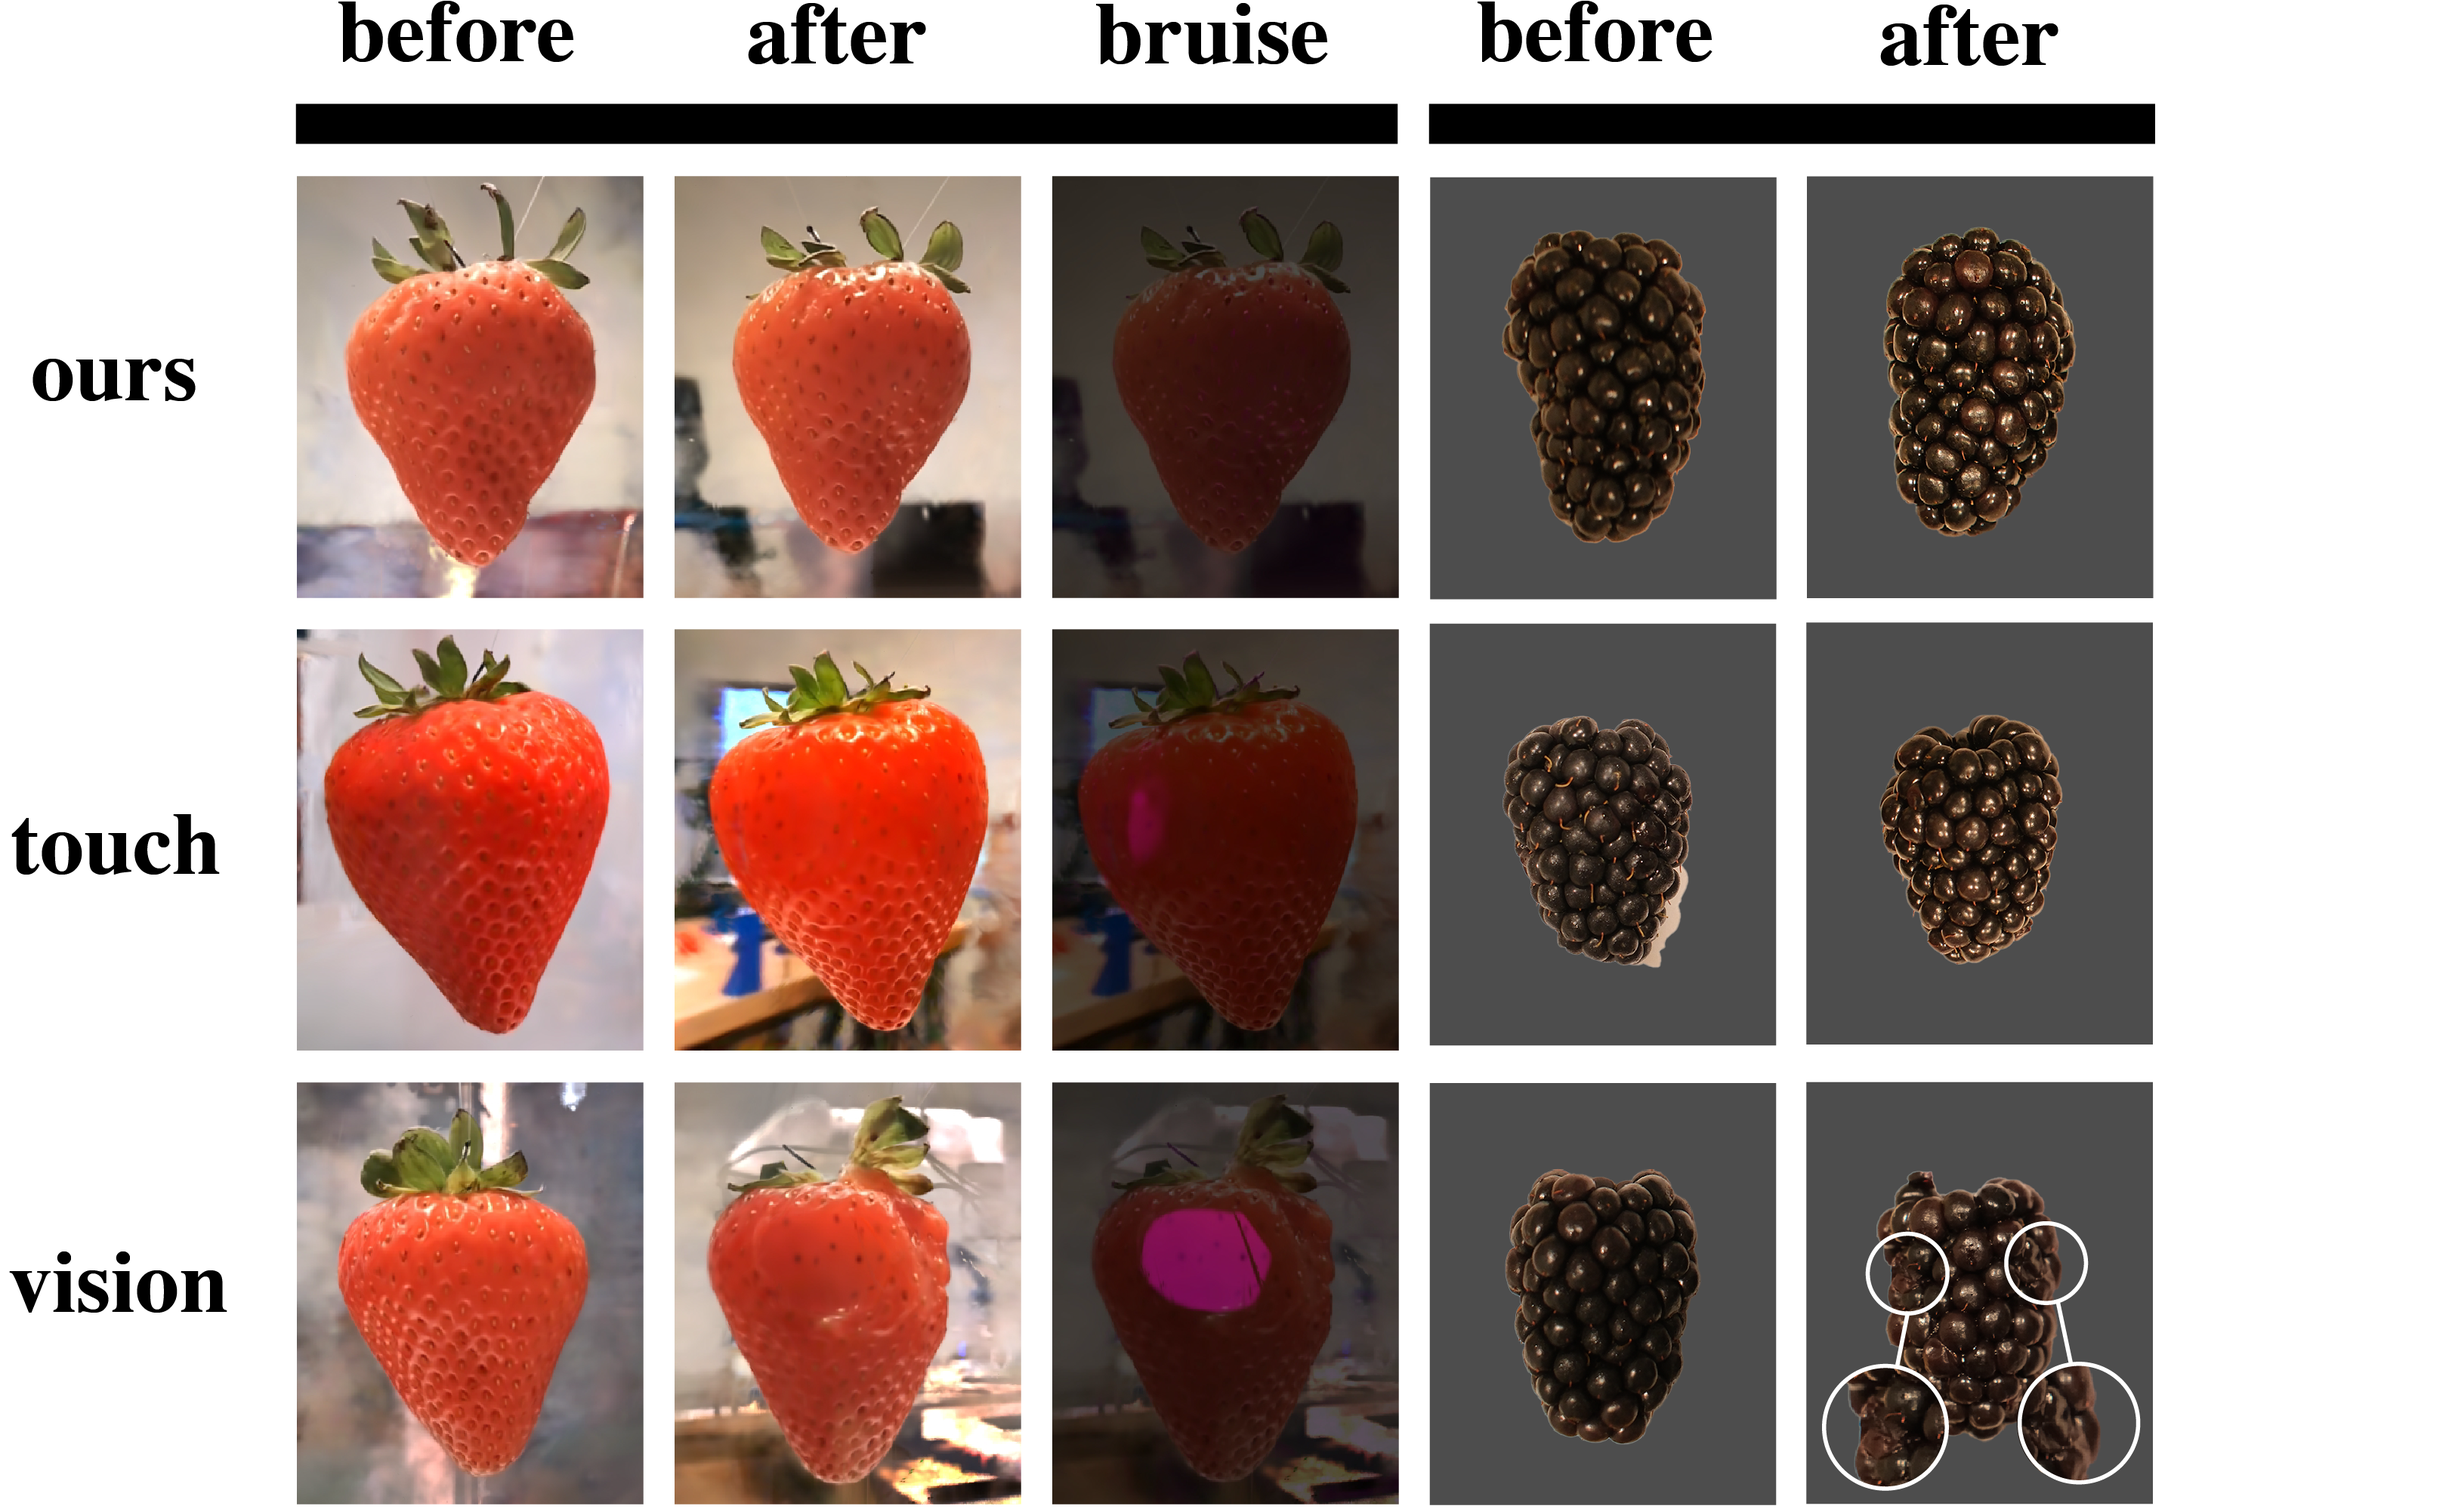
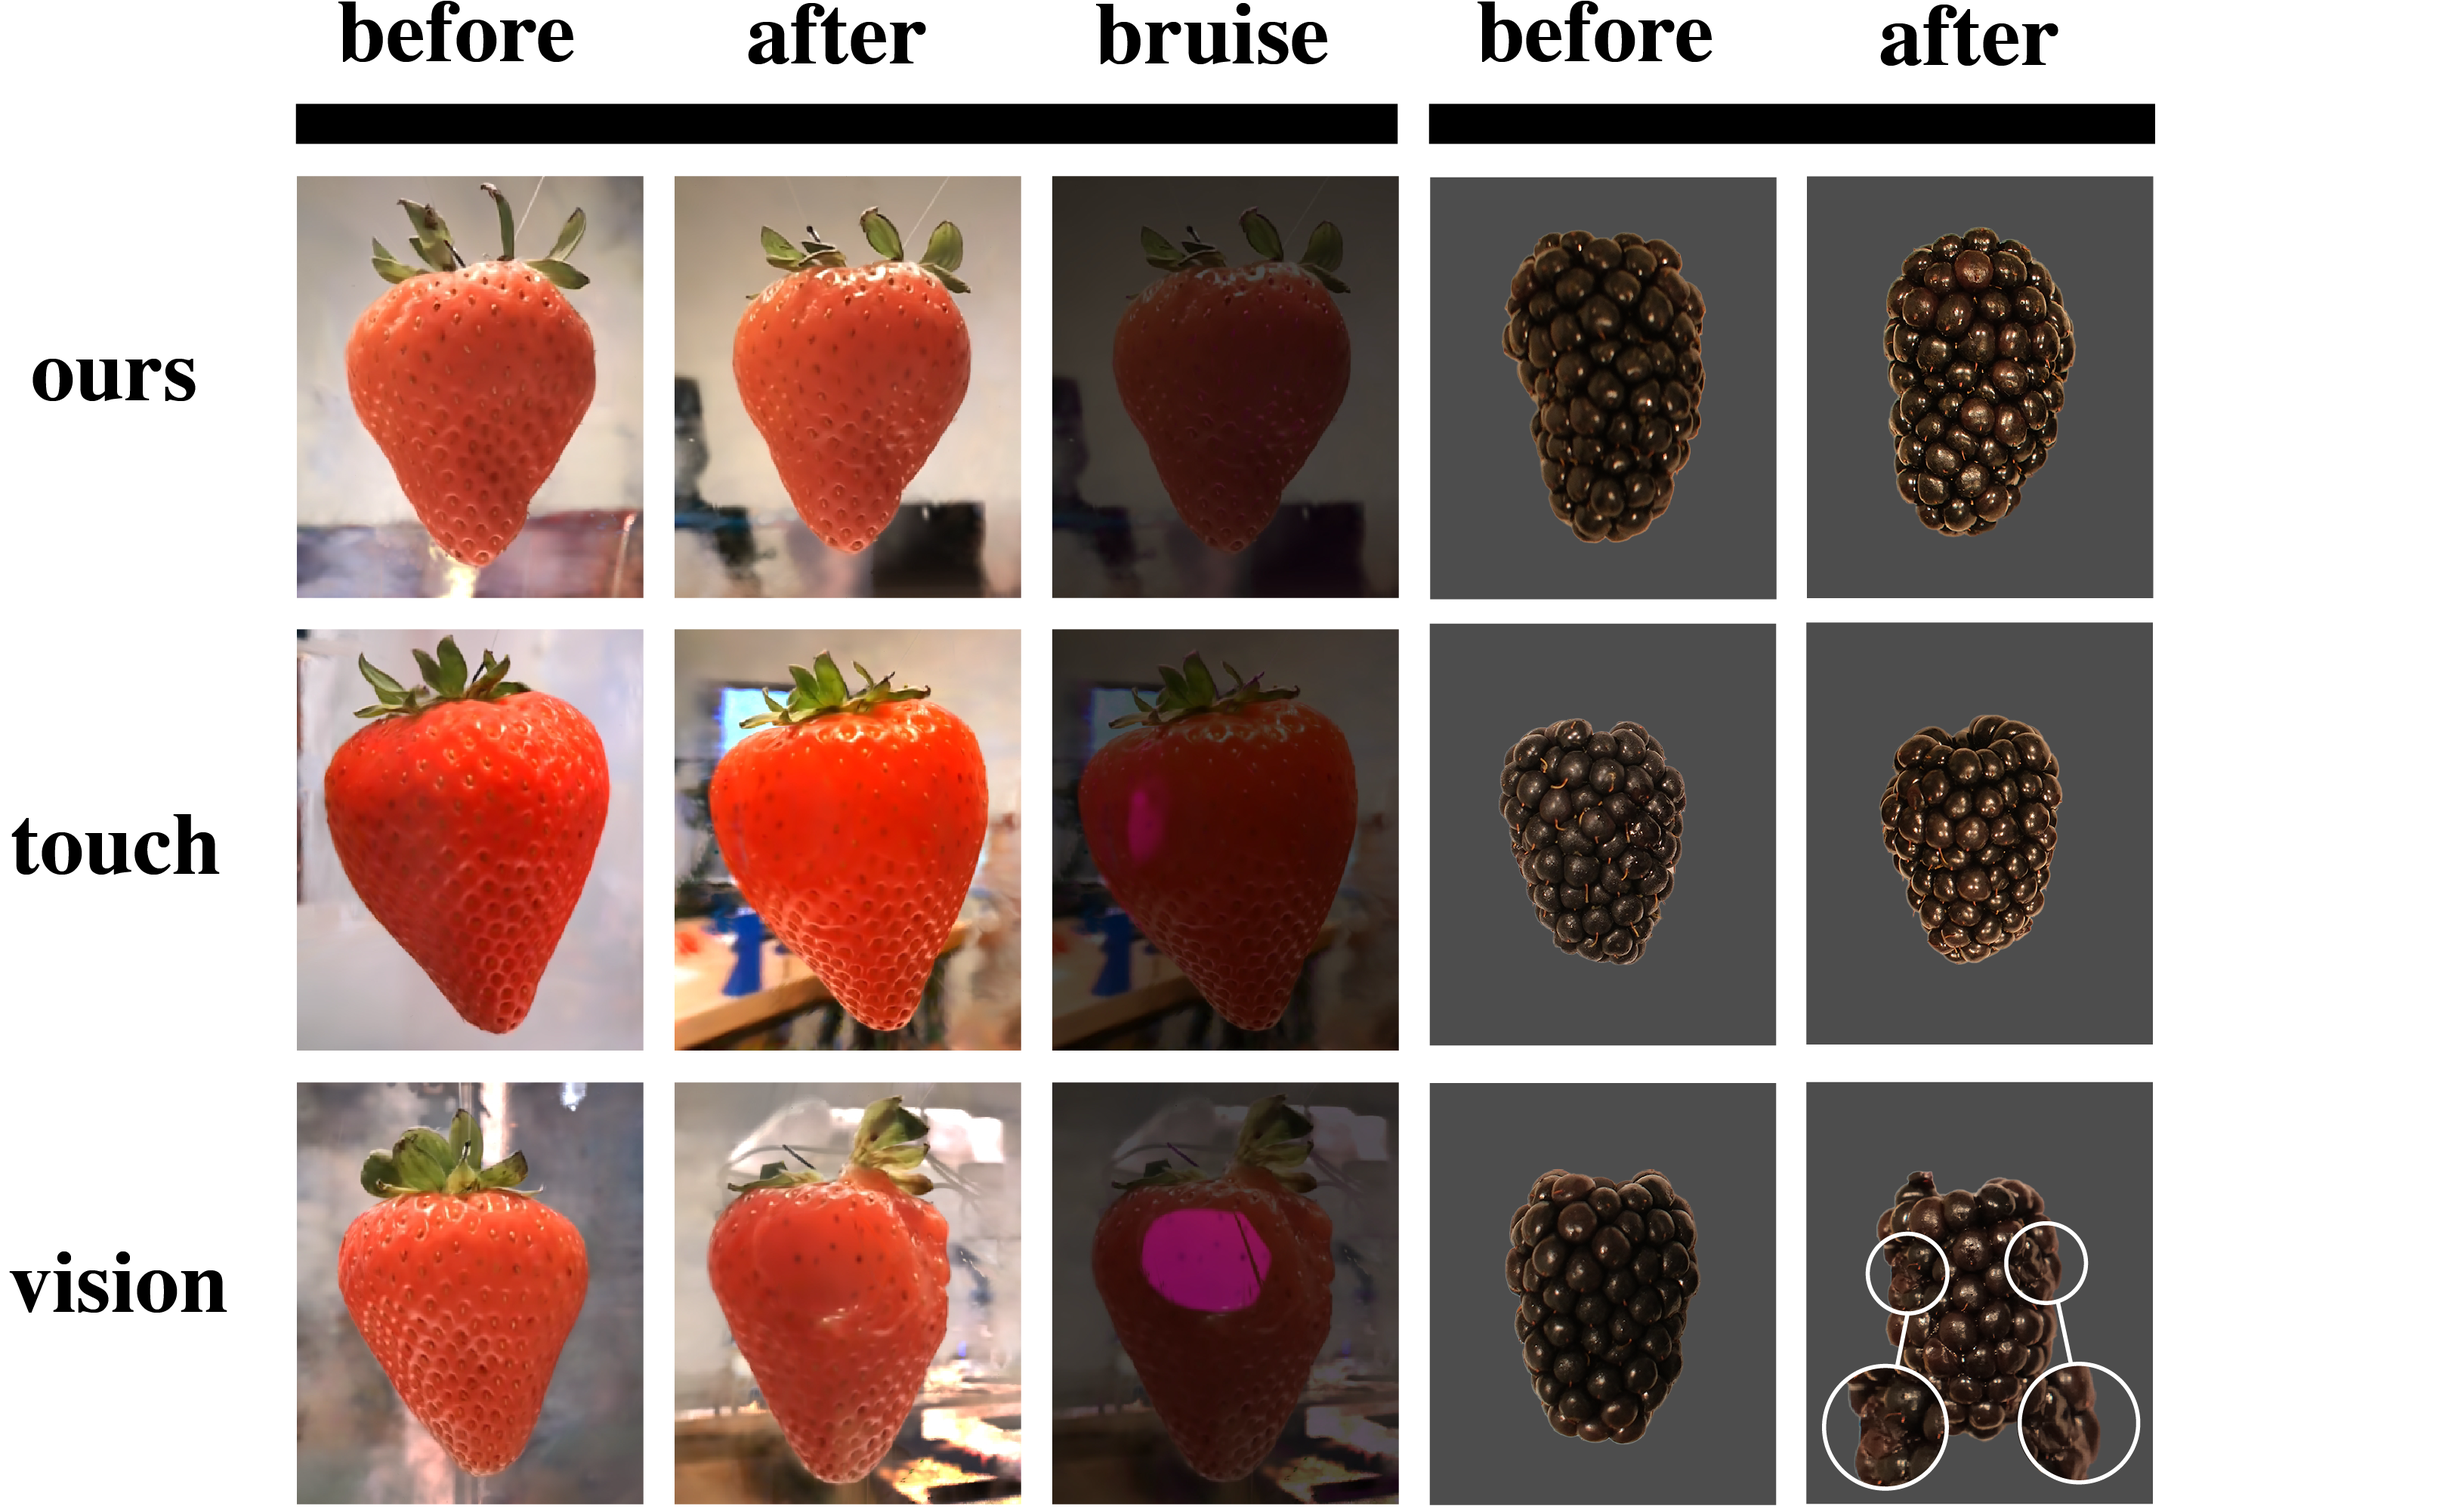
added new results image

Changed region(s): [[0.5919, 0.4655, 0.7165, 0.6517]]

diff --git a/index.html b/index.html
@@ -2,6 +2,17 @@
 <html lang="en">
 
 <head>
+
+    <!-- Google tag (gtag.js) -->
+  <script async src="https://www.googletagmanager.com/gtag/js?id=G-KY36W9S550"></script>
+  <script>
+    window.dataLayer = window.dataLayer || [];
+    function gtag(){dataLayer.push(arguments);}
+    gtag('js', new Date());
+
+    gtag('config', 'G-KY36W9S550');
+  </script>
+
   <meta charset="UTF-8">
   <meta name="viewport" content="width=device-width, initial-scale=1.0">
   <title>DexFruit</title>
@@ -465,27 +476,27 @@
         <div style="text-align: center; margin-bottom: 2.5rem;">
           <a href="#" style="margin-right: 1.5rem; color: #3478f6; text-decoration: none; font-weight: 600;">[Paper - Coming Soon]</a>
           <a href="#" style="margin-right: 1.5rem; color: #3478f6; text-decoration: none; font-weight: 600;">[arXiv - Coming Soon]</a>
-          <a href="#" style="margin-right: 1.5rem; color: #3478f6; text-decoration: none; font-weight: 600;">[Demo Video]</a>          
+          <a href="https://www.youtube.com/watch?v=uOivql8unq0" target="_blank" rel="noopener noreferrer" style="margin-right: 1.5rem; color: #3478f6; text-decoration: none; font-weight: 600;">[Demo Video]</a>          
           <a href="#" style="color: #3478f6; text-decoration: none; font-weight: 600;">[Code - Coming Soon]</a>          
         </div>
       </section>
       <section id="abstract">
         <h1>Abstract</h1>
-        <p><b>DexFruit</b> is an optical tactile sensing informed diffusion policy for fruit manipulation. 
-          Many fruit are fragile and prone to bruising, thus requiring humans to manually harvest them with 
-          care. In this work we demonstrate by using expressive tactile sensing, automatic manipulation of 
-          fruit with minimal damage can be achieved. We show that our tactile informed diffusion policies 
-          outperforms baselines in both reduced bruising and pick-and-place success rate across three fruit: 
+        <p> DexFruit is a robotic manipulation framework that enables gentle, autonomous handling of fragile fruit 
+          and precise evaluation of damage. Many fruits are fragile and prone to bruising, thus requiring humans to 
+          manually harvest them with care. In this work, we demonstrate by using optical tactile sensing, autonomous 
+          manipulation of fruit with minimal damage can be achieved. We show that our tactile informed diffusion 
+          policies outperforms baselines in both reduced bruising and pick-and-place success rate across three fruit: 
           <b>strawberries, tomatoes, and blackberries</b>. In addition, we introduce <b>FruitSplat</b>, a novel 
-          technique to represent relevant agricultural information in high resolution 3D representation of 
-          <b>3D Gaussian Splatting (3DGS)</b>. Existing metrics for measuring damage lack quantitative rigor or 
-          require expensive equipment. With FruitSplat, we distill a 2D bruise detection segmentation model as 
-          well as 2D strawberry segmentation masking into the 3DGS representation. Furthermore, this representation 
-          is modular and general which we demonstrate by distilling mask information into the representation. 
-          Overall we demonstrate a <b>92% grasping policy success rate</b>, up to a <b>60% reduction in damage</b> 
-          and up to an <b>83% improvement in grasp success rate</b> on challenging fruit compared to our baselines 
-          across our three tested fruits: strawberries, blackberries and tomatoes. We rigorously evaluate this 
-          result with <b>over 630 trials</b>.</p>
+          technique to represent and quantify visual damage in high resolution 3D representation via <b>3D Gaussian 
+          Splatting (3DGS)</b>. Existing metrics for measuring damage lack quantitative rigor or require expensive 
+          equipment. With FruitSplat, we distill a 2D strawberry mask as well as a 2D bruise segmentation mask 
+          into the 3DGS representation. Furthermore, this representation is modular and general, which we demonstrate 
+          by distilling mask information into the representation. Overall, we demonstrate a <b>92% grasping policy success rate</b>, 
+          up to a <b>60% reduction in damage</b>, and up to an <b>31% improvement in grasp success rate</b> 
+          on challenging fruit compared to our baselines across our three tested fruits. We rigorously evaluate this 
+          result with over <b>630 trials</b>.
+        </p>
       </section>
 
       <section id="method-at-a-glance">
@@ -503,8 +514,7 @@
       
     <section id="tactile-policy">
       <h2>Tactile Diffusion Policy</h2>
-      <p>DexFruit introduces a diffusion policy trained on expert demonstrations that leverages optical tactile sensing from DenseTact sensors to enable precise, low-damage manipulation of soft fruit. The robot receives RGB images from a wrist camera and tactile images from both gripper fingers. To improve performance, the system switches from visual input to tactile input upon contact detection. The policy outputs end-effector poses and gripper widths. This approach enables safe grasping without the need for complex gripper hardware.
-
+      <p>DexFruit uses a diffusion-based imitation learning policy enhanced with optical tactile sensing to gently handle delicate fruits like strawberries, tomatoes, and blackberries. The policy intelligently switches between visual and tactile inputs, enabling precise grasping while minimizing bruising. This approach enables safe grasping without the need for complex gripper hardware.
       </p>
       <!-- Main display area for videos -->
       <div style="display: flex; flex-direction: column; align-items: center; width: 100%;">
